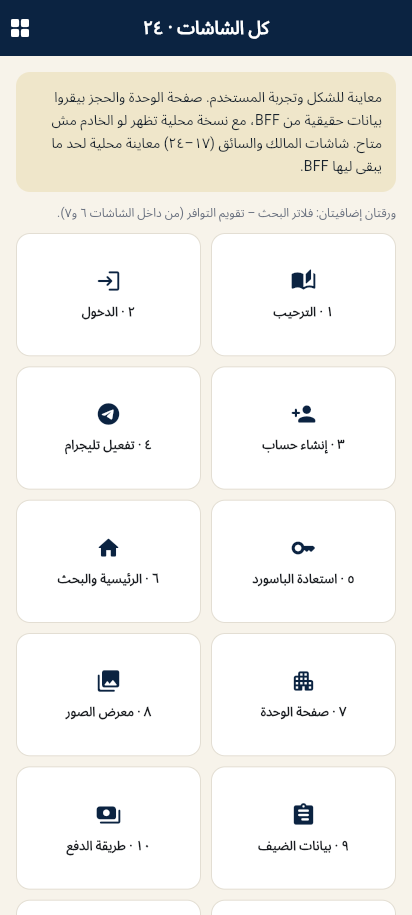
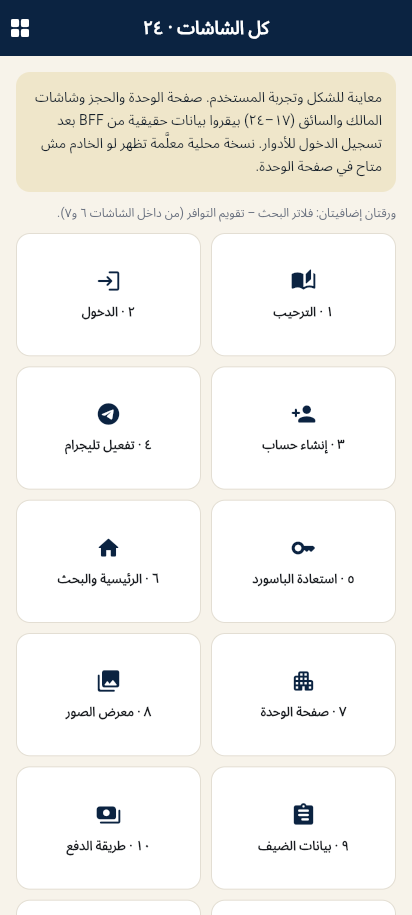
feat(mobile): start on welcome screen and fix review index copy

Changed region(s): [[0.0874, 0.0918, 0.932, 0.2142]]

diff --git a/test/widget_test.dart b/test/widget_test.dart
@@ -8,6 +8,7 @@ import 'package:qiwalo_app/api/api_client.dart';
 import 'package:qiwalo_app/api/role_repository.dart';
 import 'package:qiwalo_app/api/unit_repository.dart';
 import 'package:qiwalo_app/main.dart';
+import 'package:qiwalo_app/screens/design_index.dart';
 import 'package:qiwalo_app/owner_driver_data.dart';
 import 'package:qiwalo_app/screens/discover.dart';
 import 'package:qiwalo_app/screens/owner_driver.dart';
@@ -61,8 +62,17 @@ Map<String, dynamic> _apiBody() => {
     };
 
 void main() {
-  testWidgets('معاينة التصميم تعرض فهرس الشاشات الأربعة والعشرين', (tester) async {
+  testWidgets('شاشة الترحيب هي أول شاشة عند فتح التطبيق', (tester) async {
     await tester.pumpWidget(const QiwaloApp());
+    expect(find.text('إقامتك وتجاربك في الأقصر وأسوان'), findsOneWidget);
+    expect(find.text('ابدأ الآن'), findsOneWidget);
+    expect(find.text('عندي حساب · دخول'), findsOneWidget);
+    expect(find.text('معاينة كل الشاشات'), findsOneWidget);
+    expect(find.text('كل الشاشات · ٢٤'), findsNothing);
+  });
+
+  testWidgets('فهرس المراجعة لسه بيعرض الشاشات الأربعة والعشرين', (tester) async {
+    await tester.pumpWidget(const MaterialApp(home: DesignIndexScreen()));
     expect(find.text('كل الشاشات · ٢٤'), findsOneWidget);
     expect(find.text('١٦ · المساعدة والشروط'), findsOneWidget);
     expect(find.text('١٧ · لوحة المالك'), findsOneWidget);
@@ -71,7 +81,7 @@ void main() {
 
   testWidgets('الاتجاه RTL مفروض على كل التطبيق', (tester) async {
     await tester.pumpWidget(const QiwaloApp());
-    final direction = Directionality.of(tester.element(find.text('كل الشاشات · ٢٤')));
+    final direction = Directionality.of(tester.element(find.text('قيوالو')));
     expect(direction, TextDirection.rtl);
   });
 

diff --git a/lib/screens/auth.dart b/lib/screens/auth.dart
@@ -10,7 +10,7 @@ class OnboardingScreen extends StatelessWidget {
     return Scaffold(
       backgroundColor: navy,
       body: SafeArea(
-        child: Padding(
+        child: SingleChildScrollView(
           padding: const EdgeInsets.fromLTRB(24, 40, 24, 24),
           child: Column(
             crossAxisAlignment: CrossAxisAlignment.stretch,
@@ -39,7 +39,7 @@ class OnboardingScreen extends StatelessWidget {
               _feature(Icons.search_rounded, 'ابحث', 'وحدات بأسعار واضحة وتوافر محدّث'),
               _feature(Icons.terrain_rounded, 'خطّط', 'سفاري ونقل وباقات في مكان واحد'),
               _feature(Icons.support_agent_rounded, 'تواصل', 'دعم عربي على مدار اليوم'),
-              const Spacer(),
+              const SizedBox(height: 24),
               ElevatedButton(
                 style: ElevatedButton.styleFrom(backgroundColor: gold, foregroundColor: navy),
                 onPressed: () => Navigator.pushNamed(context, '/signup'),
@@ -49,6 +49,13 @@ class OnboardingScreen extends StatelessWidget {
               TextButton(
                 onPressed: () => Navigator.pushNamed(context, '/login'),
                 child: const Text('عندي حساب · دخول', style: TextStyle(color: Colors.white)),
+              ),
+              TextButton(
+                onPressed: () => Navigator.pushNamed(context, '/design'),
+                child: const Text(
+                  'معاينة كل الشاشات',
+                  style: TextStyle(color: Color(0xFFC7D2DF), fontSize: 12),
+                ),
               ),
             ],
           ),

diff --git a/lib/screens/design_index.dart b/lib/screens/design_index.dart
@@ -50,7 +50,7 @@ class DesignIndexScreen extends StatelessWidget {
             padding: const EdgeInsets.all(14),
             decoration: BoxDecoration(color: gold.withValues(alpha: 0.16), borderRadius: BorderRadius.circular(14)),
             child: const Text(
-              'معاينة للشكل وتجربة المستخدم. صفحة الوحدة والحجز بيقروا بيانات حقيقية من BFF، مع نسخة محلية تظهر لو الخادم مش متاح. شاشات المالك والسائق (١٧–٢٤) معاينة محلية لحد ما يبقى ليها BFF.',
+              'معاينة للشكل وتجربة المستخدم. صفحة الوحدة والحجز وشاشات المالك والسائق (١٧–٢٤) بيقروا بيانات حقيقية من BFF بعد تسجيل الدخول للأدوار. نسخة محلية معلَّمة تظهر لو الخادم مش متاح في صفحة الوحدة.',
               style: TextStyle(color: ink, height: 1.6),
             ),
           ),

diff --git a/lib/main.dart b/lib/main.dart
@@ -1,3 +1,4 @@
+import 'package:flutter/foundation.dart';
 import 'package:flutter/material.dart';
 import 'api/booking_repository.dart';
 import 'owner_driver_data.dart';
@@ -26,7 +27,8 @@ class QiwaloApp extends StatelessWidget {
         textDirection: TextDirection.rtl,
         child: child!,
       ),
-      initialRoute: '/design',
+      // أندرويد يبدأ بالترحيب؛ بناء الويب أداة تصوير فقط فيبدأ بفهرس المراجعة.
+      initialRoute: kIsWeb ? '/design' : '/onboarding',
       onGenerateRoute: (settings) {
         switch (settings.name) {
           case '/unit':

diff --git a/docs/DESIGN-REVIEW.md b/docs/DESIGN-REVIEW.md
@@ -15,7 +15,7 @@
 - اسم التطبيق الظاهر في القائمة: **قيوالو**، بأيقونة كحلي/ذهبي مولّدة من `tools/make_icons.py`.
 - معرّف الحزمة: `com.qiwalo.app` (مختلف عن APK القديم، فبيتفّوا جنب بعض).
 - إرشادات التحميل والتثبيت: `docs/INSTALL-ANDROID.md`.
-- أول شاشة عند الفتح هي فهرس المراجعة؛ منها تقدر تفتح أي شاشة.
+- أول شاشة عند الفتح على أندرويد هي **شاشة الترحيب**؛ ومن رابط «معاينة كل الشاشات» تقدر تفتح فهرس المراجعة وأي شاشة منه. بناء الويب (أداة اللقطات فقط) يبدأ بفهرس المراجعة.
 - لو حابب تبنيه بنفسك: `flutter build apk --debug` (تم ضبط `flutter config --jdk-dir` على JDK 23 لأن الـ JBR المثبّت 25 غير مدعوم من Gradle).
 
 ## تفاصيل الوحدة (أول بند تنفيذ فعلي)
@@ -80,10 +80,11 @@
 
 ## تحقق تقني
 - `flutter analyze` ✅ بلا ملاحظات.
-- `flutter test` ✅ ١١ اختباراً (٥ لمعاينة التصميم وتفاصيل الوحدة وشاشات المالك/السائق، ٣ لحجز Mock: التسعير من BFF وظهور رسالة الرفض والبحث برقم المرجع، و٣ لدخول الأدوار وقراءة بيانات المالك/السائق بالتوكن).
+- `flutter test` ✅ ١٢ اختباراً (٦ لمعاينة التصميم والترحيب وتفاصيل الوحدة وشاشات المالك/السائق، ٣ لحجز Mock: التسعير من BFF وظهور رسالة الرفض والبحث برقم المرجع، و٣ لدخول الأدوار وقراءة بيانات المالك/السائق بالتوكن).
 - `flutter build web --release --dart-define=USE_MOCK=true` ✅ (للقطات المراجعة فقط؛ ٢٧ لقطة Pixel 7).
 - `flutter build apk --debug` ✅ وتم فحص الـ APK: يحتوي `libflutter.so` و`flutter_assets` (عكس APK القديم).
-- `aapt dump badging` ✅: `package='com.qiwalo.app'` و`application-label='قيوالو'` وأيقونة adaptive من `@mipmap/ic_launcher`.
+- `aapt dump badging` ✅: `package='com.qiwalo.app'` و`application-label='قيوالو'` و`versionName='1.2.1'` / `versionCode='4'` وأيقونة adaptive من `@mipmap/ic_launcher`.
+- تثبيت فعلي على جهاز `SM_A075F` عبر `adb install -r` ✅، والتطبيق افتح من غير كراش خاص به.
 
 ## متعمّد تأجيله
 - باقي الشاشات API/تخزين فعلي (المفضلة/الإشعارات مجرد واجهة) — تفاصيل الوحدة والحجز اتعملوا، والباقي لسه.

diff --git a/docs/RELEASE-WORKFLOW.md b/docs/RELEASE-WORKFLOW.md
@@ -26,5 +26,6 @@
 | `mobile-v1.0.0` | أول إصدار علني: واجهة RTL كاملة، تفاصيل وحدة من BFF، حجز حقيقي بالتسعير والتأكيد ورقم المرجع، البحث برقم الحجز، ولقطات Pixel 7. |
 | `mobile-v1.1.0` | إضافة ٨ شاشات مالك/سائق (معاينة محلية)، فهرس ٢٤ شاشة، و٢٧ لقطة Pixel 7. |
 | `mobile-v1.2.0` | ربط شاشات المالك والسائق بـ BFF الأدوار: دخول JWT، تخزين آمن للتوكن، بيانات حقيقية مع حالات تحميل/فراغ/خطأ وإعادة محاولة، حفظ وحدة المالك، إيقاف/استئناف مركبة السائق، و١١ اختباراً. |
+| `mobile-v1.2.1` | شاشة الترحيب بقت أول شاشة على أندرويد، مع رابط «معاينة كل الشاشات» للوصول لفهرس المراجعة، وتصحيح نص قديم كان بيقول إن أدوار المالك/السائق معاينة محلية. |
 
 > التوقيع Release وإشعارات Push لسه مؤجّلة لطلب صريح. شاشات المالك/السائق مرتبطة بـ BFF الأدوار، لكن قبول/رفض طلبات الحجز لسه للقراءة فقط لأن الحجوزات بتتأكد تلقائياً. الـ APK الحالي debug وموقّع بالتطوير؛ يمكن تثبيته مباشرة على أندرويد ويُوزّع عبر رابط الـ Release.

diff --git a/README.md b/README.md
@@ -59,4 +59,6 @@ Copy-Item build\app\outputs\flutter-apk\app-debug.apk releases\qiwalo.apk -Force
 
 ## الإصدارات
 
-كل تحديث بياخد GitHub Release لوحده في هذا المستودع، مع APK ولقطات Pixel 7. أحدث إصدار: `mobile-v1.2.0`.
+كل تحديث بياخد GitHub Release لوحده في هذا المستودع، مع APK ولقطات Pixel 7. أحدث إصدار: `mobile-v1.2.1`.
+
+أول ما يفتح التطبيق على أندرويد تظهر **شاشة الترحيب**، ومنها رابط «معاينة كل الشاشات» لفهرس المراجعة. بناء الويب بيبدأ بفهرس المراجعة لأنه أداة توليد اللقطات فقط.

diff --git a/docs/INSTALL-ANDROID.md b/docs/INSTALL-ANDROID.md
@@ -20,7 +20,7 @@
    ```powershell
    C:\Users\musta\AppData\Local\Android\Sdk\platform-tools\adb.exe install -r "K:\qiwalo\qiwalo-flutter\releases\qiwalo.apk"
    ```
-6. افتح «قيوالو» من قائمة التطبيقات. أول شاشة هي فهرس الشاشات؛ اضغط أي شاشة للمراجعة.
+6. افتح «قيوالو» من قائمة التطبيقات. أول شاشة هي **الترحيب**؛ اضغط «ابدأ الآن» أو «عندي حساب · دخول»، أو «معاينة كل الشاشات» لو عايز فهرس المراجعة.
 
 ## الطريقة ٢ — من غير كابل
 
